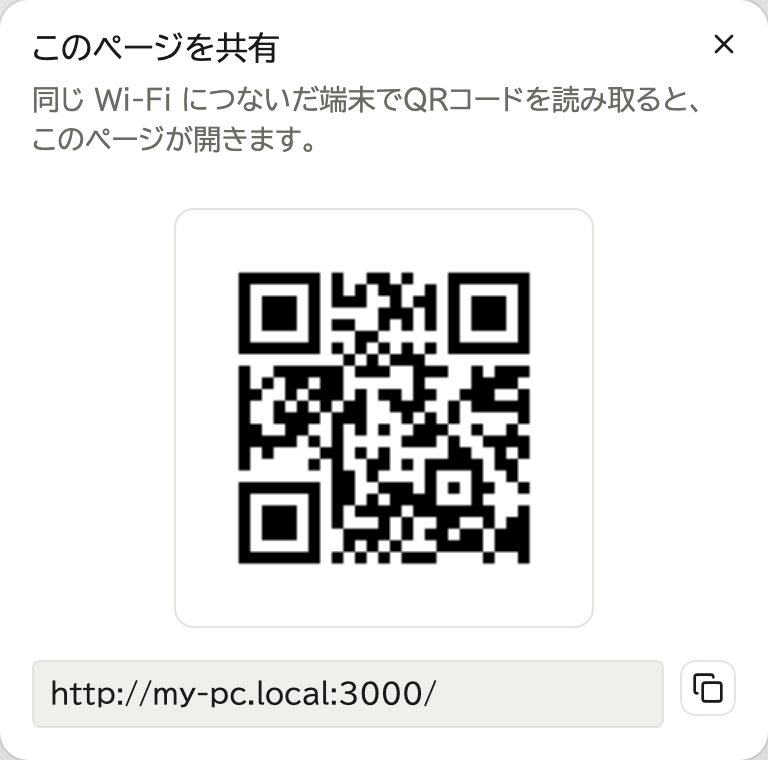
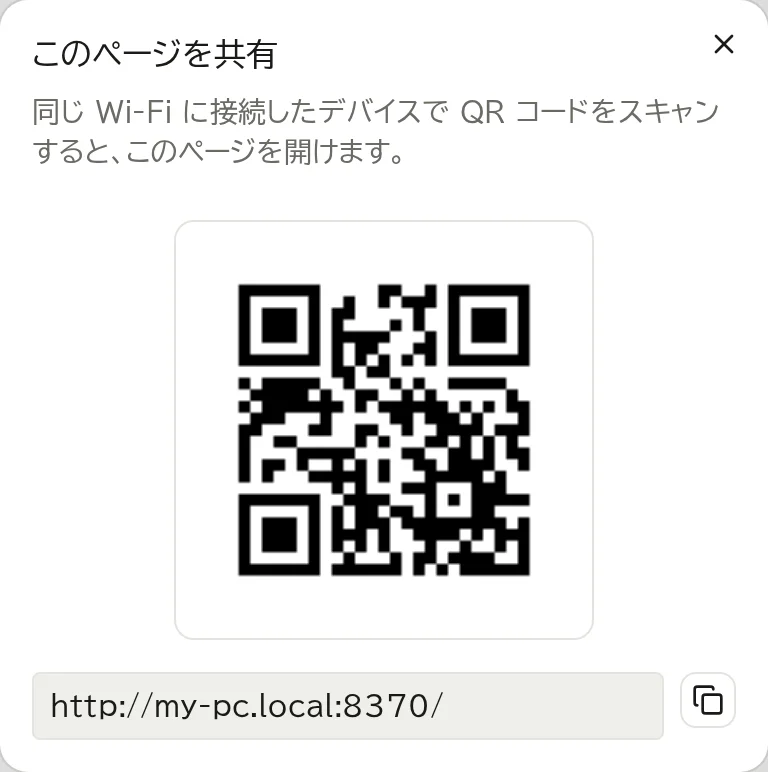
レビューの指摘を直し、旧ポートが写った画像を撮り直す
- 既定のポートを選んだ理由のコメントを、避けた番号と IANA の確かめた時点が分かる形にした
- マニュアルの「ずれた」の文言を例と分かる形にし、ポートを変える例を 3100 から 8390 にした
- コメントに書き写していた番号を「既定のポート」にした
- マニュアルの共有の QR の画像を、撮影の流れ (share-qr) に足して撮り直した。紹介の画像・サイト設定のポートの欄の画像も撮り直した

diff --git a/frontend/scripts/manual-shots.ts b/frontend/scripts/manual-shots.ts
@@ -52,7 +52,8 @@ const ADMIN_SHOTS = [
 	'roots-delete',
 	'axis-row-actions',
 	'archive-items-tab',
-	'archive-items-publish'
+	'archive-items-publish',
+	'share-qr'
 ];
 const DIAGRAM_SHOTS = ['how-it-works'];
 const ALL_SHOTS = [...ADMIN_SHOTS, ...DIAGRAM_SHOTS];
@@ -368,7 +369,7 @@ async function shootAdmin() {
 			if (want('settings-port')) {
 				// 保存はしない。変えた項目に付く印と、戻すボタンも写す。
 				const port = page.getByRole('textbox', { name: 'ポート' });
-				await port.fill('3100');
+				await port.fill('8390');
 				await port.blur();
 				await shotSection(
 					page,
@@ -531,6 +532,18 @@ async function shootAdmin() {
 				padTop: 16,
 				padBottom: 8
 			});
+		}
+
+		if (want('share-qr')) {
+			// 使い捨ての backend は 127.0.0.1 で待ち受けるので、そのままだと QR コードでなく
+			// 「他の端末からはつながりません」の案内になる。他の端末から開ける設置と同じ答えを返させる。
+			await page.route('**/api/v1/connection-info', (route) =>
+				route.fulfill({ json: { mdnsHostname: 'my-pc.local', port: 8370 } })
+			);
+			await goto(page, '/');
+			await page.getByRole('button', { name: 'このページを共有' }).click();
+			await page.getByRole('menuitem', { name: 'QR コードを表示...' }).click();
+			await shotElement(page, 'share-qr', dialog(page));
 		}
 	} finally {
 		await closePagesAndStop(backend);

diff --git a/frontend/scripts/generate-spec.ts b/frontend/scripts/generate-spec.ts
@@ -1,7 +1,7 @@
 // `just spec` から呼ばれるアプリ仕様書ジェネレータ。
 //
 // 1. 一時 WEBLAV_HOME を作り、専用ポートで `target/debug/weblav-service` を起動する
-//    (開発中の dev-backend/:8370 と衝突しないように、かつ既存の開発用DBを汚さないように)。
+//    (開発中の dev-backend (既定のポート) と衝突しないように、かつ既存の開発用DBを汚さないように)。
 // 2. seed.sql を node:sqlite で直接流し込む(Rust側の変更なしでシードできる)。
 // 3. Playwright でスクリーンショットを撮り、paraglideのメッセージを直接importして文言を取る。
 //    各ショットは既定で desktop/tablet/mobile の3サイズを撮る(shots.ts の viewports で

diff --git a/frontend/scripts/backend-process.ts b/frontend/scripts/backend-process.ts
@@ -3,7 +3,7 @@
 // `just spec` (generate-spec.ts)・`just e2e-local` (run-e2e.ts)・`just manual-shots` (manual-shots.ts) で共有する。
 //
 // 一時 WEBLAV_HOME と空きポートで起動するので、開発用 DB にも、並行して動いている
-// 開発サーバー (:8370) にも影響しない。呼び出し側は必ず `stop()` を呼ぶこと。
+// 開発サーバー (既定のポート) にも影響しない。呼び出し側は必ず `stop()` を呼ぶこと。
 
 import { spawn, type ChildProcess } from 'node:child_process';
 import { mkdtempSync, rmSync, writeFileSync } from 'node:fs';

diff --git a/docs/manual/ja/11-troubleshooting.md b/docs/manual/ja/11-troubleshooting.md
@@ -21,7 +21,7 @@
 
 ## ポートの番号がずれた
 
-メニューに「ポート 8370 を使えないため、8371 で動いています」と出ているときです。
+メニューに「ポート 8370 を使えないため、8371 で動いています」のように出ているときです。
 今のアドレスで開きます。画面右上の共有のアイコンを押し、「QR コードを表示...」を選ぶと出ます。
 
 いつもずれるときは、ポートを変えます。
@@ -30,7 +30,7 @@
 
    ![サイト設定のタブ](images/settings-page.webp)
 
-2. 「ポート」を別の番号 (3100 など) にし、「保存する」を押す
+2. 「ポート」を別の番号 (8390 など) にし、「保存する」を押す
 
    ![サイト設定のポートの欄](images/settings-port.webp)
 

diff --git a/docs/manual/en/11-troubleshooting.md b/docs/manual/en/11-troubleshooting.md
@@ -21,7 +21,7 @@ Check these in order.
 
 ## The port number changed
 
-This applies when the menu says “Port 8370 was unavailable; running on 8371”.
+This applies when the menu says something like “Port 8370 was unavailable; running on 8371”.
 Open the current address. To see it, select the share icon at the top right, then choose “Show QR code...”.
 
 If it changes often, change the port.
@@ -30,7 +30,7 @@ If it changes often, change the port.
 
    ![The Site settings tab](images/settings-page.webp)
 
-2. Set “Port” to a different number, such as 3100, then select “Save”.
+2. Set “Port” to a different number, such as 8390, then select “Save”.
 
    ![The Port section in Site settings](images/settings-port.webp)
 
